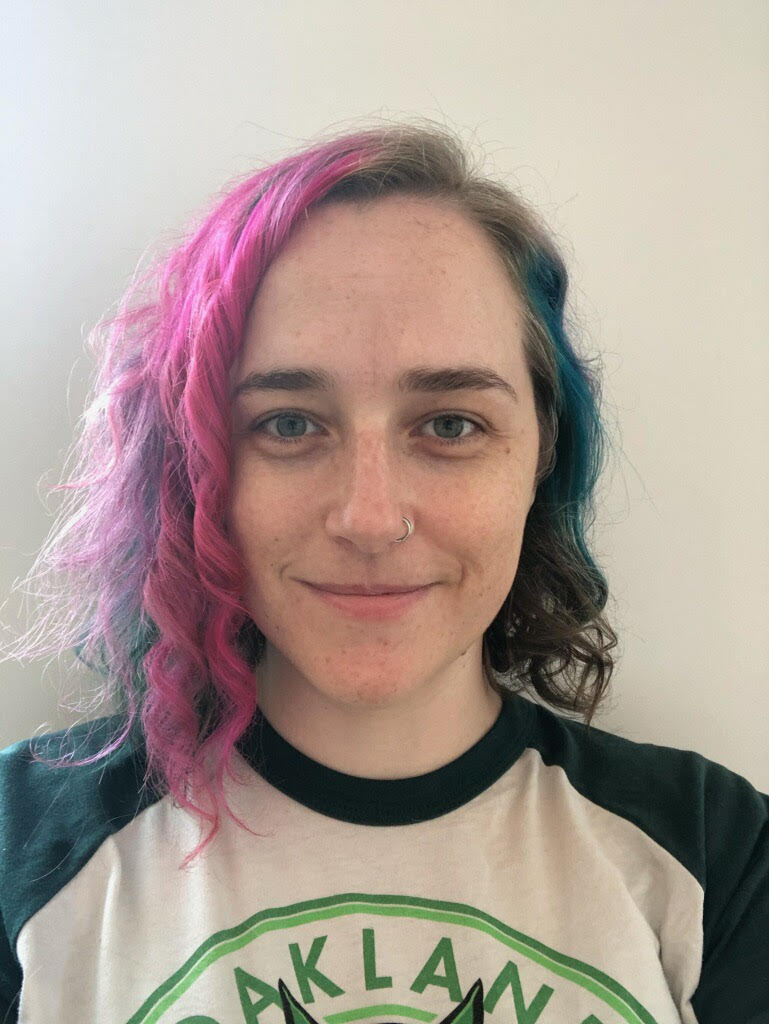
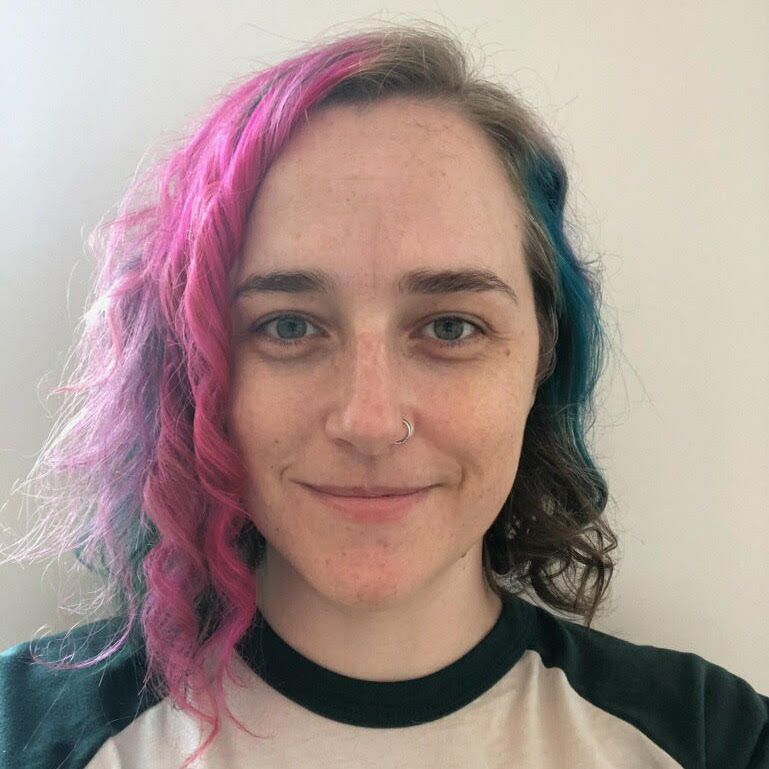
Edit images so they fit better in the boxes

diff --git a/content/Speakers.md b/content/Speakers.md
@@ -43,7 +43,7 @@ surveillance and control.
 
 
 ### Aaron Wood
-<img class='speaker-img' src="../images/speakers/logo.png" alt="Profile Photo of Aaron Wood" />
+<img class='speaker-img' src="../images/speakers/square_logo.png" alt="Profile Photo of Aaron Wood" />
 
 
 <span class="talk-title">The Ancient Greeks and Their Restless Cattle: A 2300-Year-Old Soap Opera About Big Integers! </span>
@@ -52,11 +52,11 @@ Previously on The Ancient and the Restless:  Archimedes' new BigNumeral class
 is the talk of the town, but his biggest rival is out to destroy and replace it.
 Not to be outdone, Archimedes poses a cattle-counting problem to cement his
 place at the top.  As planned, the challenge proves insurmountable and interest
-in the problem eventually dies. 
+in the problem eventually dies.
 
 ....Or does it??  In true soap opera fashion, the long-forgotten problem has
 reappeared with a vengeance.  Will two millennia of maths and the advent of
-computers be enough to answer Archimedes' challenge to find the number of Cattle 
+computers be enough to answer Archimedes' challenge to find the number of Cattle
 Under The Sun?!
 
 **Aaron** is a mathematician turned programmer who loves soap operas and shiro wot.
@@ -123,7 +123,7 @@ detach from the rigor of my data collection exercise which surely would prove to
 son that I love him when he's older... right?
 
 During this presentation I will use the data I collected and the analysis surrounding it
-to tell one true story of breastfeeding, data collection, and postpartum mood disorders. 
+to tell one true story of breastfeeding, data collection, and postpartum mood disorders.
 Sometimes, having more data isn't the best (and sometimes it is okay to give up).
 
 **Heather Nolis** is a machine learning engineer at T-Mobile leading the AI team but
@@ -164,7 +164,7 @@ offensive license plates.
 
 ### Jason Orendorff
 
-<img class='speaker-img' src="../images/speakers/logo.png" alt="Profile Photo of Jason Orendorff" />
+<img class='speaker-img' src="../images/speakers/square_logo.png" alt="Profile Photo of Jason Orendorff" />
 
 <span class="talk-title">Wolf, Goat, and Cabbage In Two Styles!!</span>
 
@@ -174,7 +174,7 @@ languages enable thinking about time and data?
 
 Inform 7 is an unusual programming language that looks a bit like English prose. Alloy
 is a model specification language that looks kind of like advanced math. They are
-languages from two different worlds, but both are about objects and their 
+languages from two different worlds, but both are about objects and their
 relationships. Both come with interesting visualization tools. And both have some
 issues dealing with change. In this talk, we'll implement an ancient puzzle in both languages,
 explore their unique charms, and reflect on whether it's possible to step into the same river twice.
@@ -387,7 +387,7 @@ complain a lot about it.
 
 <span class="talk-title">How To Host A Podcast For 25 Cents A Month?</span>
 
-Want to host a podcast, but don't know where to start? I have answers!! Last year I launched From The Source, where I interview unsung people in tech with amazing stories. Hosting involves three major components: an XML file with episode details, mp3 storage, and metrics on your listeners. In this talk, I’ll go over all the AWS tools and Python scripts I used so I could own my data and not incur hefty hosting fees. 
+Want to host a podcast, but don't know where to start? I have answers!! Last year I launched From The Source, where I interview unsung people in tech with amazing stories. Hosting involves three major components: an XML file with episode details, mp3 storage, and metrics on your listeners. In this talk, I’ll go over all the AWS tools and Python scripts I used so I could own my data and not incur hefty hosting fees.
 
 During this talk, I will be creating a fresh podcast from scratch, with only a few pre-prepared items like any good cooking show. Together we’ll upload the MP3 file to S3 and then create an XML file and upload that as well. You can then pull the feed onto your phone using any podcast app and download the episode. After we download the episode, we can parse the S3 logs using Athena to see who has been listening. And finally, I’ll show you a bonus script that helps with the worst part of hosting a podcast: editing.
 
@@ -439,7 +439,7 @@ Frustratingly, infrared photographers find that they can never photograph the in
 
 <span class="talk-title">linkRot!! Dancing the patterns of digital decay</span>
 
-This is a dance inspired by broadcast audio through RSS, technology obsolescence, Git version controls, and 3-2-1 backups. Sounds recorded from earlier talks will be regenerated to create auditory memories of early digital networking and are made tangible through isolated limbed branches that build to a feeling of potential completion. It soon breaks down as segments are gradually destroyed due to algorithmically-controlled centralized over-saturation. This is an exploration of existing digital archiving techniques that are missing components to recreate the full computational environment. 
+This is a dance inspired by broadcast audio through RSS, technology obsolescence, Git version controls, and 3-2-1 backups. Sounds recorded from earlier talks will be regenerated to create auditory memories of early digital networking and are made tangible through isolated limbed branches that build to a feeling of potential completion. It soon breaks down as segments are gradually destroyed due to algorithmically-controlled centralized over-saturation. This is an exploration of existing digital archiving techniques that are missing components to recreate the full computational environment.
 
 linkRot is a dance that serves to emulate the physical euphoria that internet content creation permits to the digital decay that comes with loss (or is there even a feeling of loss?).
 
@@ -510,13 +510,13 @@ If you wanted to print a diagram on a piece of paper in the 60s, a pen plotter w
 ---
 
 ### Will Hammond
-<img class='speaker-img' src="../images/speakers/logo.png" alt="Profile Photo of Will Hammond"/>
+<img class='speaker-img' src="../images/speakers/square_logo.png" alt="Profile Photo of Will Hammond"/>
 
 <span class="talk-title">Noise!?? WHAT NOISE!!!??</span>
 
 It's often taken for granted that information can be sent near-losslessly. We don't expect songs on Spotify to sound drastically different compared to CD, we don't expect text to arrive in our web browser jumbled, and we don't expect our friend's voice to sound like Darth Vader over the phone. However, there was a time when this was thought to be impossible. Prior to Claude Shannon's 1948 paper "A Mathematical Theory of Communication", noise was considered the norm.  In this paper, Shannon gives a mathematical language for representing and minimizing noise. This talk gives a visual and interactive overview of why this work continues to be relevant to this day.
 
-**Will** loves reading about noise while talking as little as possible. 
+**Will** loves reading about noise while talking as little as possible.
 
 ---
 
